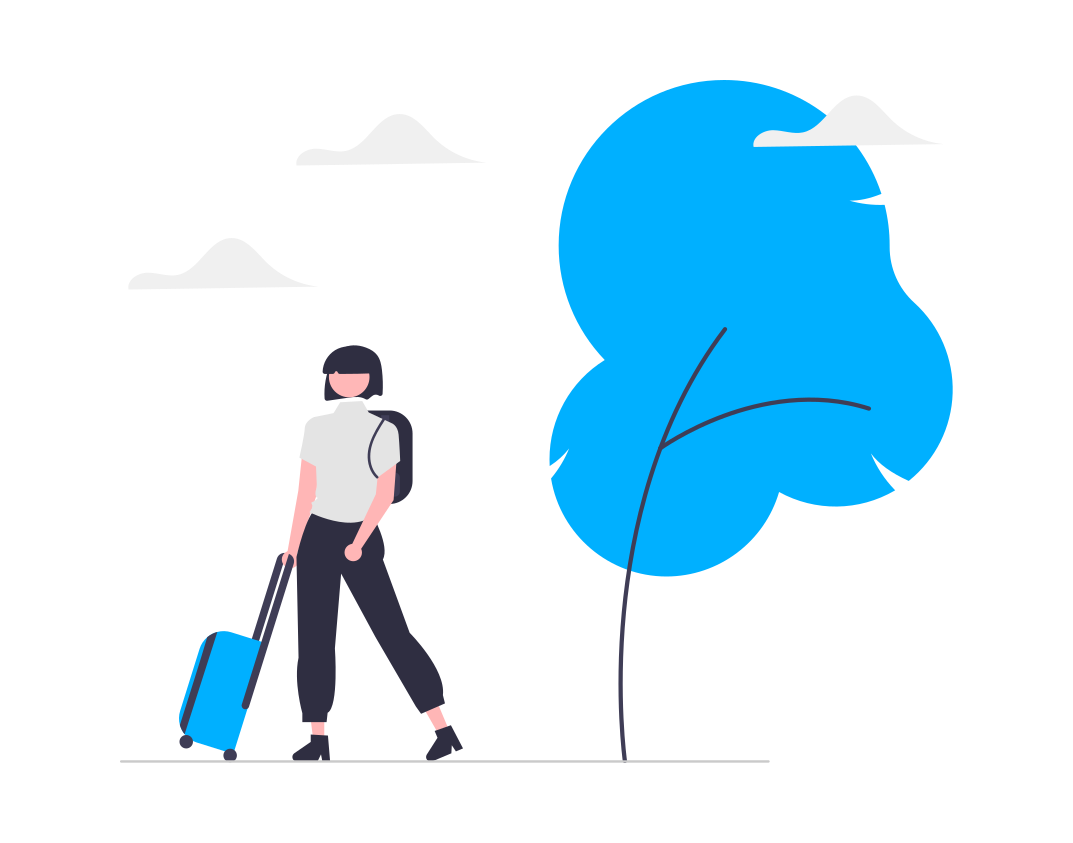
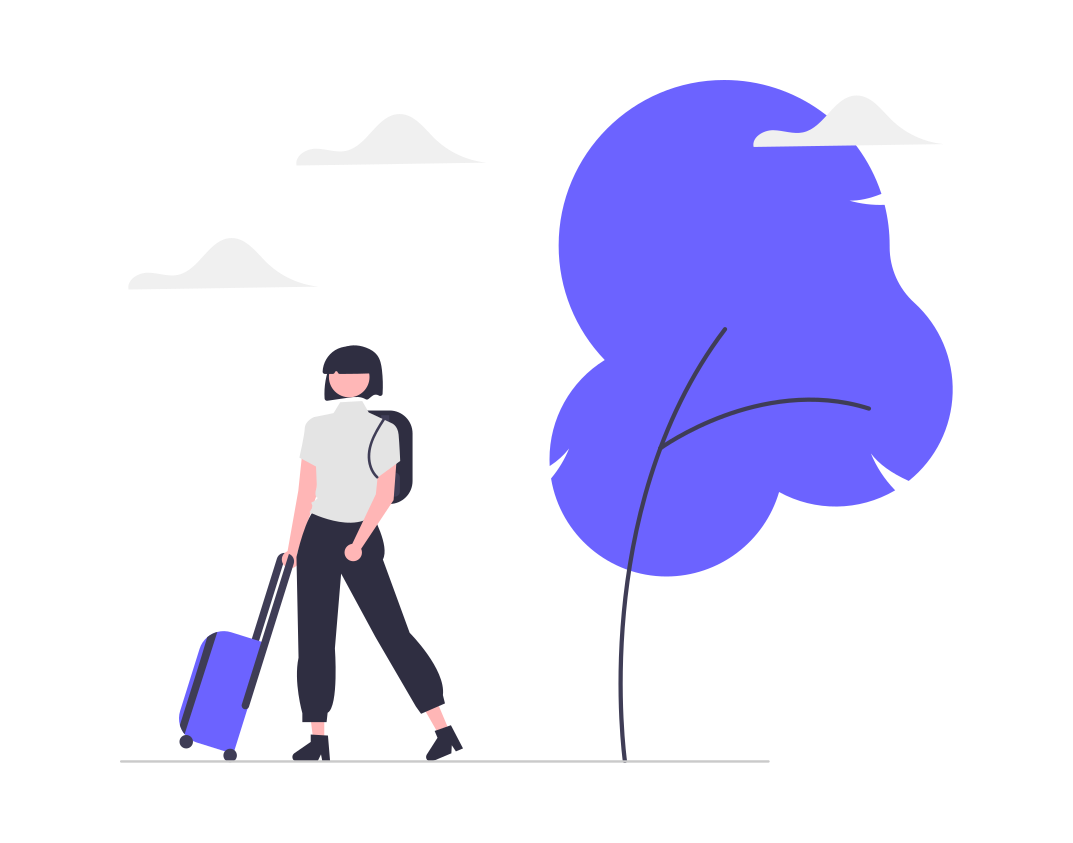
add: Remove btn trip

Changed region(s): [[0.4921, 0.0925, 0.8919, 0.7094], [0.1538, 0.7402, 0.246, 0.8944]]

diff --git a/src/client/js/updateUi.js b/src/client/js/updateUi.js
@@ -1,4 +1,5 @@
 // SELECTORS
+const result = document.getElementById('result')
 const resultCountry = document.getElementById('result__country')
 const resultCity = document.getElementById('result__city')
 const resultImg = document.getElementById('result__img')
@@ -8,6 +9,8 @@ const resultLowTemp = document.getElementById('result__low__temp')
 const tempDesc = document.getElementById('temp__desc')
 const lengthTrip = document.getElementById('length__trip')
 const daysTravel = document.getElementById('days__travel')
+const btnRemove = document.getElementById('btn_remove')
+const weatherIcon = document.getElementById('weather__icon')
 //  GLOBAL VARIABLE
 let dataStorage = ''
 // URL IMAGE IF pixaBay NOT FOUND IMAGE
@@ -27,6 +30,8 @@ const updateUi = async () => {
       lengthTrip.innerHTML = dataStorage.dateDeff
       dataStorage.dateDeff > 1 ? daysTravel.innerHTML = 'Days' : daysTravel.innerHTML = 'Day'
       dataStorage.tripImg ? resultImg.setAttribute('src', dataStorage.tripImg.webformatURL) : resultImg.setAttribute('src', UrlImageNoAvailable)
+      weatherIcon.setAttribute('src', `https://www.weatherbit.io/static/img/icons/${dataStorage.weatherBitMatchDay[0].weather.icon}.png`)
+      result.style.display = 'block'
     }
   }
   catch (err) {
@@ -41,4 +46,9 @@ window.addEventListener('load', (e) => {
     updateUi()
   }
 });
+// REMOVE TRIP 
+btnRemove.addEventListener('click', () => {
+  localStorage.removeItem('data')
+  result.style.display = 'none'
+})
 export { updateUi }

diff --git a/src/client/views/index.html b/src/client/views/index.html
@@ -44,7 +44,7 @@
     </aside>
   </main>
   <h2>Your Trip</h2>
-  <div class="result">
+  <div class="result" id="result">
     <div class="result__img">
       <img src="" alt="trip" id="result__img">
     </div>
@@ -52,7 +52,7 @@
       <h3><span id="result__city"></span>,<span id="result__country"></span></h3>
       <div class="result__content">
         <div class="result__information__temp">
-          <img src="https://www.weatherbit.io/static/img/icons/r01d.png" alt="weather Icon">
+          <img src="" alt="weather Icon" id="weather__icon">
         </div>
         <div class="result__information__desc">
           <p>Departing: <span id="result__departing"></span></p>

diff --git a/src/client/styles/result.scss b/src/client/styles/result.scss
@@ -6,6 +6,7 @@
   border-top-right-radius: 1rem;
   border-top-left-radius: 1rem;
   overflow: hidden;
+  display: none;
 }
 .result__img {
   max-height: 15rem;
@@ -47,10 +48,10 @@
   }
 }
 .btn_remove {
-  padding: 0.5rem 1rem;
-  background: #1966b3;
+  padding: 0.8rem 1.3rem;
+  background: #8566e5;
   color: white;
-  font-size: 1rem;
+  font-size: 1.1rem;
   border: none;
   cursor: pointer;
   border-radius: 0.5rem;
@@ -61,6 +62,6 @@
   margin-bottom: 2rem;
   transition: all 300ms ease-in-out;
   &:hover {
-    background: #1966b3b3;
+    background: #8566e5b3;
   }
 }

diff --git a/src/client/styles/main.scss b/src/client/styles/main.scss
@@ -14,11 +14,11 @@ main {
     max-width: 25rem;
     margin: auto;
     button {
-      padding: 0.5rem 1rem;
+      padding: 0.8rem 1.3rem;
       margin: auto;
-      background: #1966b3;
+      background: #8566e5;
       color: white;
-      font-size: 1rem;
+      font-size: 1.1rem;
       border: none;
       cursor: pointer;
       border-radius: 0.5rem;
@@ -27,7 +27,7 @@ main {
       transition: all 300ms ease-in-out;
     }
     button:hover {
-      background: #1966b3b3;
+      background: #8566e5b3;
     }
   }
 }

diff --git a/src/client/index.js b/src/client/index.js
@@ -7,7 +7,6 @@ import './styles/main.scss';
 import './styles/footer.scss';
 import './styles/result.scss';
 import './media/travel1.png'
-import './media/travel.svg'
 export {
   geoName,
   updateUi,

diff --git a/src/client/styles/style.scss b/src/client/styles/style.scss
@@ -95,3 +95,6 @@ h2::before {
   left: 0;
   bottom: -0.2rem;
 }
+button:active {
+  transform: scale(0.9);
+}
